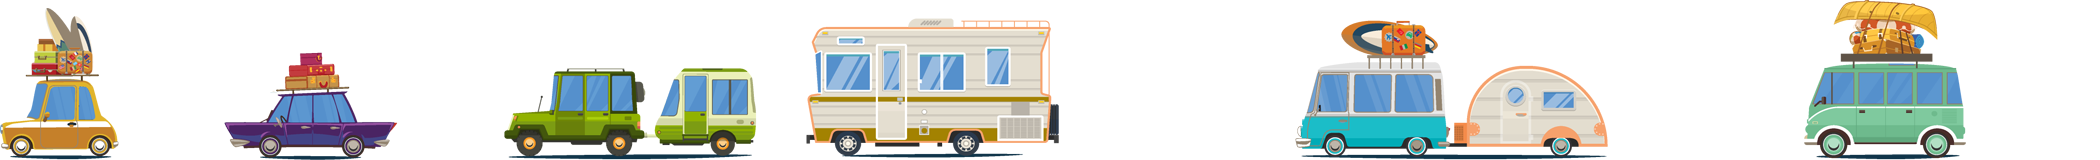
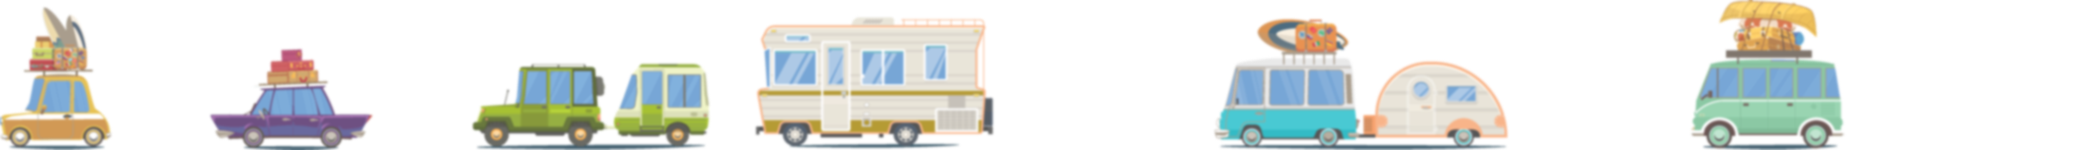
cleanup

diff --git a/summer-reading/index.html b/summer-reading/index.html
@@ -61,7 +61,7 @@ e.async=true;var t=document.getElementsByTagName("script")[0];t.parentNode.inser
 	font-size: 3.5em;
 }
 .sky-row {
-	background: #386799 url("blurred-landscape.jpg") bottom left repeat-x;
+	background: #386799 url("landscape.jpg") bottom left repeat-x;
 }
 .content-row {
 	background: #375972 linear-gradient(#375972, #578ec7);
@@ -89,7 +89,7 @@ e.async=true;var t=document.getElementsByTagName("script")[0];t.parentNode.inser
 }
 .far-lane {
 	min-height: 150px;
-	background: transparent url("blurred-far-lane-vehicles.png") repeat-x bottom center;
+	background: transparent url("far-lane-vehicles.png") repeat-x bottom center;
 	-webkit-animation: slide 28s linear infinite;
 	animation: slide 28s linear infinite;
 	margin-top: -193px;
@@ -113,7 +113,7 @@ background-position: -2100px 0;
 }
 .near-lane {
 	min-height: 180px;
-	background: transparent url("blurred-near-lane-vehicles.png") repeat-x bottom center;
+	background: transparent url("near-lane-vehicles.png") repeat-x bottom center;
 	-webkit-animation: left-slide 18s linear infinite;
 	animation: left-slide 18s linear infinite;
 	margin-top: -193px;

diff --git a/summer-reading/registration/index.html b/summer-reading/registration/index.html
@@ -88,20 +88,15 @@ filter: progid:DXImageTransform.Microsoft.gradient( startColorstr='#375972', end
 	background: #FFC900;
 	padding: 35px 40px 40px;
 	margin: 15px;
-
 }
-	.box-one {
-		-webkit-clip-path: polygon(5% 0, 98% 2%, 100% 97%, 0 100%);
-clip-path: polygon(5% 0, 98% 2%, 100% 97%, 0 100%);
-		
-	}
-	.box-two {
-
--webkit-clip-path: polygon(2% 1%, 100% 0, 100% 97%, 0 100%);
-clip-path: polygon(2% 1%, 100% 0, 100% 97%, 0 100%);
-
-
-	}
+.box-one {
+	-webkit-clip-path: polygon(3% 0, 98% 2%, 100% 98%, 0 100%);
+	clip-path: polygon(3% 0, 98% 2%, 100% 98%, 0 100%);
+}
+.box-two {
+	-webkit-clip-path: polygon(2% 1%, 100% 0, 100% 98%, 0 100%);
+	clip-path: polygon(2% 1%, 100% 0, 100% 98%, 0 100%);
+}
  @-webkit-keyframes slide {
  from {
 background-position: 0 0;
